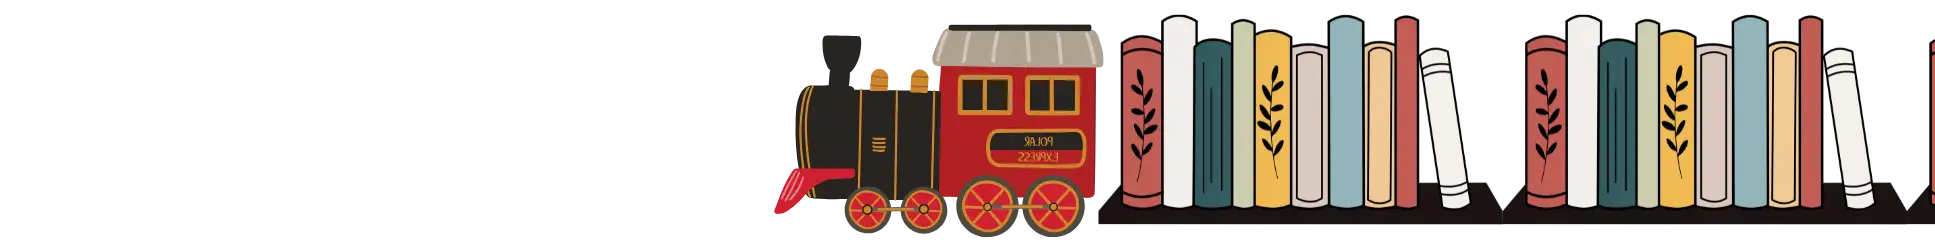
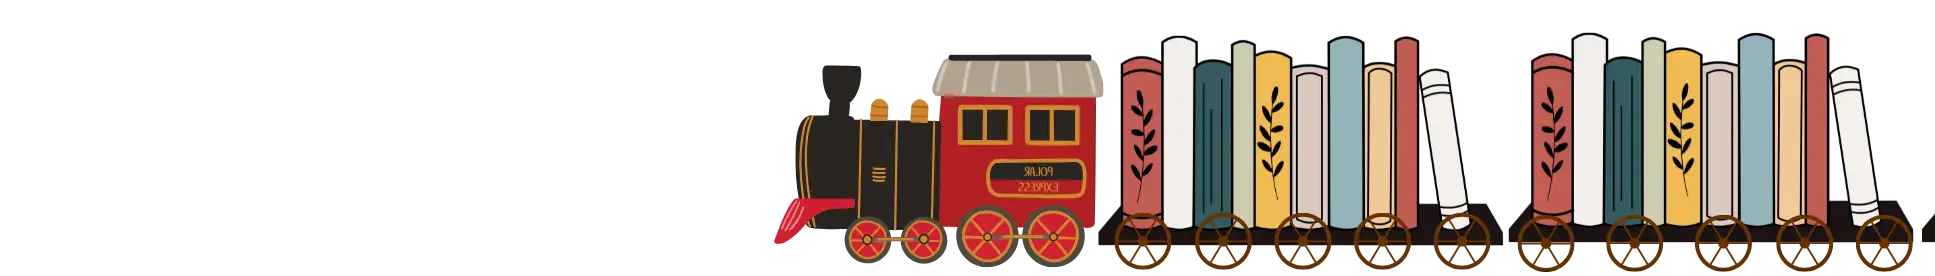
update

Changed region(s): [[0.4031, 0.0571, 1.0, 1.0]]

diff --git a/resources/views/web/homepage.blade.php b/resources/views/web/homepage.blade.php
@@ -4,33 +4,48 @@
 
 <section class="w-full hidden md:block max-w-screen-2xl -mt-6 mx-auto relative">
   <!-- Container for layers -->
-  <div class="relative w-full z-0 rounded-3 min-h-screen md:min-h-[120vh] overflow-hidden">
+  <div class="relative w-full z-0 rounded-3 min-h-[130vh]">
 
     <!-- Layer 5: Farthest Background -->
-    <div class="parallax-layer absolute z-50 w-full bottom-0" data-speed="0.05">
+    <div class="parallax-layer absolute z-50 w-full bottom-0" data-speed="0.2">
       <img src="{{ asset('assets/img/layer-005.webp') }}" class="w-full object-contain" alt="Layer 5">
     </div>
-
+    
     <!-- Layer 4 -->
-    <div class="parallax-layer absolute z-40 w-full bottom-0" data-speed="0.08">
+    <div class="parallax-layer absolute z-40 w-full bottom-0" data-speed="0.3">
       <img src="{{ asset('assets/img/layer-004.webp') }}" class="w-full object-contain" alt="Layer 4">
     </div>
 
     <!-- Layer 3: Looping layer -->
-    <div class="parallax-layer absolute z-30 bottom-44 overflow-hidden w-full" data-speed="0.1">
-        <img src="{{ asset('assets/img/layer-002.webp') }}" class="w-full -mb-6 object-contain" alt="Layer 2">
-      
-        <div class="loop-container-mobile animate-loop-x">
+    <div class="parallax-layer absolute z-30 bottom-24 w-full overflow-hidden" data-speed="0.3">
+      <img src="{{ asset('assets/img/layer-002.webp') }}" class="w-full bob-y -mb-9 object-contain" alt="Layer 2">
+
+      <!-- Bob the entire marquee vertically -->
+      <div class="loop-viewport " style="--bob-amp:12px; --bob-dur:5s">
+        <div class="loop-track">
+          <div class="loop-group">
             <img src="{{ asset('assets/img/layer-003.webp') }}" alt="Layer 3">
             <img src="{{ asset('assets/img/layer-003.webp') }}" alt="Layer 3">
             <img src="{{ asset('assets/img/layer-003.webp') }}" alt="Layer 3">
             <img src="{{ asset('assets/img/layer-003.webp') }}" alt="Layer 3">
+          </div>
+          <div class="loop-group" aria-hidden="true">
+            <img src="{{ asset('assets/img/layer-003.webp') }}" alt="Layer 3">
+            <img src="{{ asset('assets/img/layer-003.webp') }}" alt="Layer 3">
+            <img src="{{ asset('assets/img/layer-003.webp') }}" alt="Layer 3">
+            <img src="{{ asset('assets/img/layer-003.webp') }}" alt="Layer 3">
+          </div>
         </div>
+      </div>
     </div>
 
     <!-- Layer 1: Foreground -->
-    <div class="parallax-layer absolute z-10 w-full bottom-44" data-speed="0.2">
+    <div class="parallax-layer absolute z-10 w-full bottom-44" data-speed="0.3">
       <img src="{{ asset('assets/img/layer-001.webp') }}" class="w-full object-contain" alt="Layer 1">
+    </div>
+
+    <div class="parallax-layer absolute z-20 w-full top-0" data-speed="0.3">
+        <img src="{{ asset('assets/img/top-layer-new.webp') }}" class="w-full object-contain" alt="Buildings">
     </div>
 
     <!-- Foreground Content -->
@@ -39,11 +54,68 @@
       <h1 class="tracking-[5px] text-5xl uppercase font-bold text-black leading-tight">
         The Asian Literary <br> Festival
       </h1>
-      <h2 class="font-semibold tracking-[10px] text-black uppercase text-3xl">Brussels.</h2>
+      <h2 class="font-semibold tracking-[10px] text-black uppercase text-3xl">Gampaha.</h2>
     </div>
 
   </div>
+  
+   <div class="bg-transparent">
+        <div  class=" relative flex pb-24 flex-wrap bg-white z-[1000] bg-opacity-50 backdrop-blur-xl bg-transparent items-start justify-end px-6 lg:px-12 pt-36">
+          <div class="w-full lg:w-6/12">
+              <div class="">
+                  <div class=" mx-auto px-4 text-center py-6">
+                          @if($nextFestival)
+                              <h1 class="text-4xl md:text-5xl uppercase font-extrabold text-active-purple mb-4 animate-pulse">{{$nextFestival->title}}</h1>
+                              <p class="text-xl md:text-xl uppercase font-extrabold text-active-purple mb-4 animate-pulse"></p>
+                              <h2 class="font-semibold text-black uppercase text-3xl">
+                                  {{ \Carbon\Carbon::parse($nextFestival->start_at)->format('jS') }}
+                                  to
+                                  {{ \Carbon\Carbon::parse($nextFestival->end_at)->format('jS F Y') }}
+                              </h2>
 
+                              <h1 class="tracking-[10px] text-3xl uppercase font-bold text-black leading-tight">
+                                    {{ $nextFestival->location }}
+                              </h1>
+                              <div class="flex flex-wrap justify-center gap-4 py-12" id="countdown">
+                                  <div class="bg-white/50 backdrop-blur-sm rounded-xl p-4">
+                                      <span class="text-5xl font-bold text-black" id="days"></span>
+                                      <p class="text-black mb-0">Days</p>
+                                  </div>
+                                  <div class="bg-white/50 backdrop-blur-sm rounded-xl p-4">
+                                      <span class="text-5xl font-bold text-black" id="hours"></span>
+                                      <p class="text-black mb-0">Hours</p>
+                                  </div>
+                                  <div class="bg-white/50 backdrop-blur-sm rounded-xl p-4">
+                                      <span class="text-5xl font-bold text-black" id="minutes"></span>
+                                      <p class="text-black mb-0">Minutes</p>
+                                  </div>
+                                  <div class="bg-white/50 backdrop-blur-sm rounded-xl p-4">
+                                      <span class="text-5xl font-bold text-black" id="seconds"></span>
+                                      <p class="text-black mb-0">Seconds</p>
+                                  </div>
+                              </div>
+                          @else
+                              <h2 class="text-active-purple uppercase text-5xl">Coming Soon</h2>
+                          @endif
+
+                          <div class="flex justify-center items-center lg:mt-6">
+                              <register-now-modal></register-now-modal>
+                          </div>
+                          
+                      </div>
+              </div>
+          </div>
+          
+          <div class="w-full lg:w-6/12">
+            <h2 class="font-semibold text-black uppercase text-start text-7xl">Between Worlds</h2>
+              <h1 class="tracking-[10px] text-4xl uppercase font-bold text-black leading-tight">
+                  Reviving the Silk Route of Expression
+              </h1>
+          <h2 class="font-semibold tracking-[10px] text-black uppercase text-3xl mt-5"></h2>
+          <p class="text-gray-700">In the heart of Europe lies a city of the entire world, yet suspended between worlds—Brussels, where extraordinary human character and cultural richness pulse beneath an often unnoticed surface. The Asian Literary Festival, Brussels Edition, weaves creative expression from the global majority into this vibrant tapestry, transforming the European capital into an unparalleled sanctuary of cultural exchange and cross-fertilisation. This festival revives the historical exchanges between East and West, breathing new life into ancient dialogues as literary traditions converge and contemporary voices rise, creating a dynamic crossroads where stories transcend borders and new cultural conversations bloom in this remarkable intersection of civilisations.</p>
+          </div>
+      </div>
+    </div>
 
 </section>
 

diff --git a/resources/views/web/includes/headerlinks.blade.php b/resources/views/web/includes/headerlinks.blade.php
@@ -10,10 +10,14 @@
 
 
 <style>
+/* ===========================
+   Parallax base (keep as-is)
+   =========================== */
 .parallax-layer {
   will-change: transform;
   transition: transform 0.1s ease-out;
   pointer-events: none;
+  backface-visibility: hidden;
 }
 .parallax-layer img {
   display: block;
@@ -21,22 +25,90 @@
   pointer-events: none;
   user-select: none;
 }
-@keyframes loop-x {
-  0% { transform: translateX(0); }
-  100% { transform: translateX(160vw); }
+
+/* =========================================
+   Layer 3: left → right infinite marquee
+   Starts with first slide fully on screen
+   ========================================= */
+:root{
+  /* Tweak these to taste */
+  --marquee-speed: 60s;                 /* total time for one cycle  */
+  --l3-height: clamp(140px, 22vw, 320px);/* visible height for layer 3 */
 }
-.loop-container-mobile {
+
+/* The visible window for the loop */
+.loop-viewport{
+  position: relative;
+  overflow: hidden;
+  width: 100%;
+  height: var(--l3-height);
+  pointer-events: none;                 /* ensure it doesn't catch clicks */
+}
+
+/* The moving track that contains two identical groups */
+.loop-track{
   display: flex;
-  width: calc(100vw * 4);
+  width: max-content;
+  will-change: transform;
+  animation: marquee-ltr var(--marquee-speed) linear infinite;
+  backface-visibility: hidden;
 }
-.loop-container-mobile img {
-  width: 100vw;
-  flex-shrink: 0;
-  object-fit: contain;
+
+/* One group = your sequence once (duplicate it twice for seamless loop) */
+.loop-group{
+  display: flex;
 }
-.animate-loop-x {
-  animation: loop-x 60s linear infinite;
+
+/* Each slide fills the viewport width so it “pages” across smoothly */
+.loop-group img{
+  width: 100vw;        /* one full viewport width per slide */
+  height: 100%;        /* match the viewport height */
+  flex: 0 0 auto;
+  object-fit: contain; /* keep artwork proportions */
+  user-select: none;
+  pointer-events: none;
 }
+
+/* Move the track exactly one group width (50% of the double track) */
+@keyframes marquee-ltr{
+  0%   { transform: translateX(-50%); } /* show Group B (bridge fully visible) */
+  100% { transform: translateX(0%); }   /* end aligned to Group A; loops seamlessly */
+}
+
+/* Optional: smaller devices can run slower/faster or change height */
+@media (max-width: 768px){
+  :root{ --l3-height: clamp(120px, 28vw, 260px); }
+}
+
+/* Respect users who prefer reduced motion */
+@media (prefers-reduced-motion: reduce){
+  .loop-track{
+    animation: none;
+    transform: translateX(-50%); /* keep the bridge visible statically */
+  }
+}
+
+:root{
+  --bob-amp: 10px;   /* how far it moves up (px) */
+  --bob-dur: 1s;     /* one up–down cycle duration */
+}
+
+/* Generic vertical bob */
+.bob-y{
+  animation: bobY var(--bob-dur) ease-in-out infinite;
+  will-change: transform;
+}
+
+@keyframes bobY{
+  0%,100% { transform: translate3d(0,0,0); }
+  50%     { transform: translate3d(0, calc(-1 * var(--bob-amp)), 0); }
+}
+
+/* Respect reduced motion */
+@media (prefers-reduced-motion: reduce){
+  .bob-y{ animation: none; }
+}
+
 </style>
 
     @vite(['resources/css/app.css', 'resources/js/app.js'])
